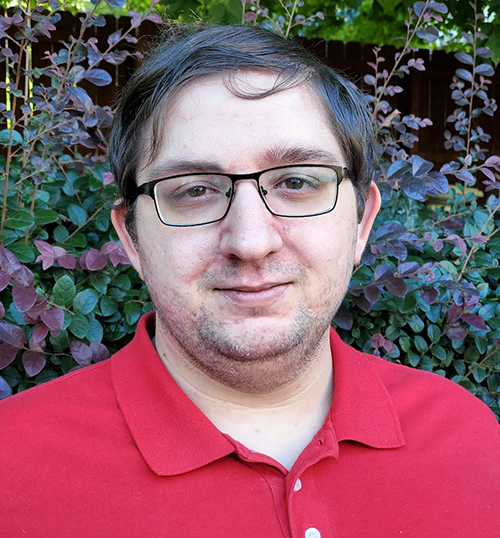
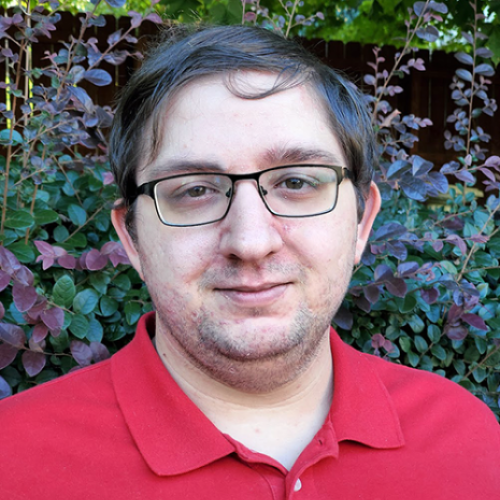
Updated About page and navigation to be more mobile friendly

diff --git a/src/components/Navigation/index.js b/src/components/Navigation/index.js
@@ -4,20 +4,20 @@ import {Link} from 'react-router-dom';
 const Navigation = () => {
 	return (
 		<nav className='grow pt-1'>
-			<ul className='flex flex-nowrap text-xl justify-center sm:justify-end '>
-				<li className='mx-1 sm:mx-3'>
+			<ul className='text-center sm:flex sm:flex-nowrap text-xl justify-center sm:justify-end'>
+				<li className='mx-1 sm:mx-2'>
 					<Link to="/">About</Link>
 				</li>
-				|
-				<li className='mx-1 sm:mx-3'>
+				<span className='hidden sm:inline'>|</span>
+				<li className='mx-1 sm:mx-2'>
 					<Link to="/projects">Projects</Link>
 				</li>
-				|
-				<li className='mx-1 sm:mx-3'>
+				<span className='hidden sm:inline'>|</span>
+				<li className='mx-1 sm:mx-2'>
 					<Link to="/contact">Contact Me</Link>
 				</li>
-				|
-				<li className='mx-1 sm:mx-3'>
+				<span className='hidden sm:inline'>|</span>
+				<li className='mx-1 sm:mx-2'>
 					<Link to="/resume">Resume</Link>
 				</li>
 			</ul>

diff --git a/src/pages/About.js b/src/pages/About.js
@@ -5,11 +5,11 @@ const About = () => {
 	return (
 		<main className='mx-3 sm:mx-15 my-5 flex flex-wrap lg:flex-nowrap justify-center p-5 border-4 rounded-lg border-slate-500'>
 			<img
-				className='mb-3 lg:mb-0 lg:mr-5 h-80'
+				className='mb-3 lg:mb-0 lg:mr-5 max-h-80 aspect-square'
 				src={require('../assets/me.png')}
 				alt="Joel Kovalcson's Headshot"
 			/>
-			<p className='text-darkgrey text-xl'>
+			<p className='text-darkgrey text-l sm:text-xl'>
 				Reminiscing on my childhood, I was always fascinated by technology in various mediums ranging from game
 				systems to personal computers. To me these devices were simply toys at the time, something to play a
 				game on. Lo and behold, I later realized that my methodical and persistent nature were helping me
